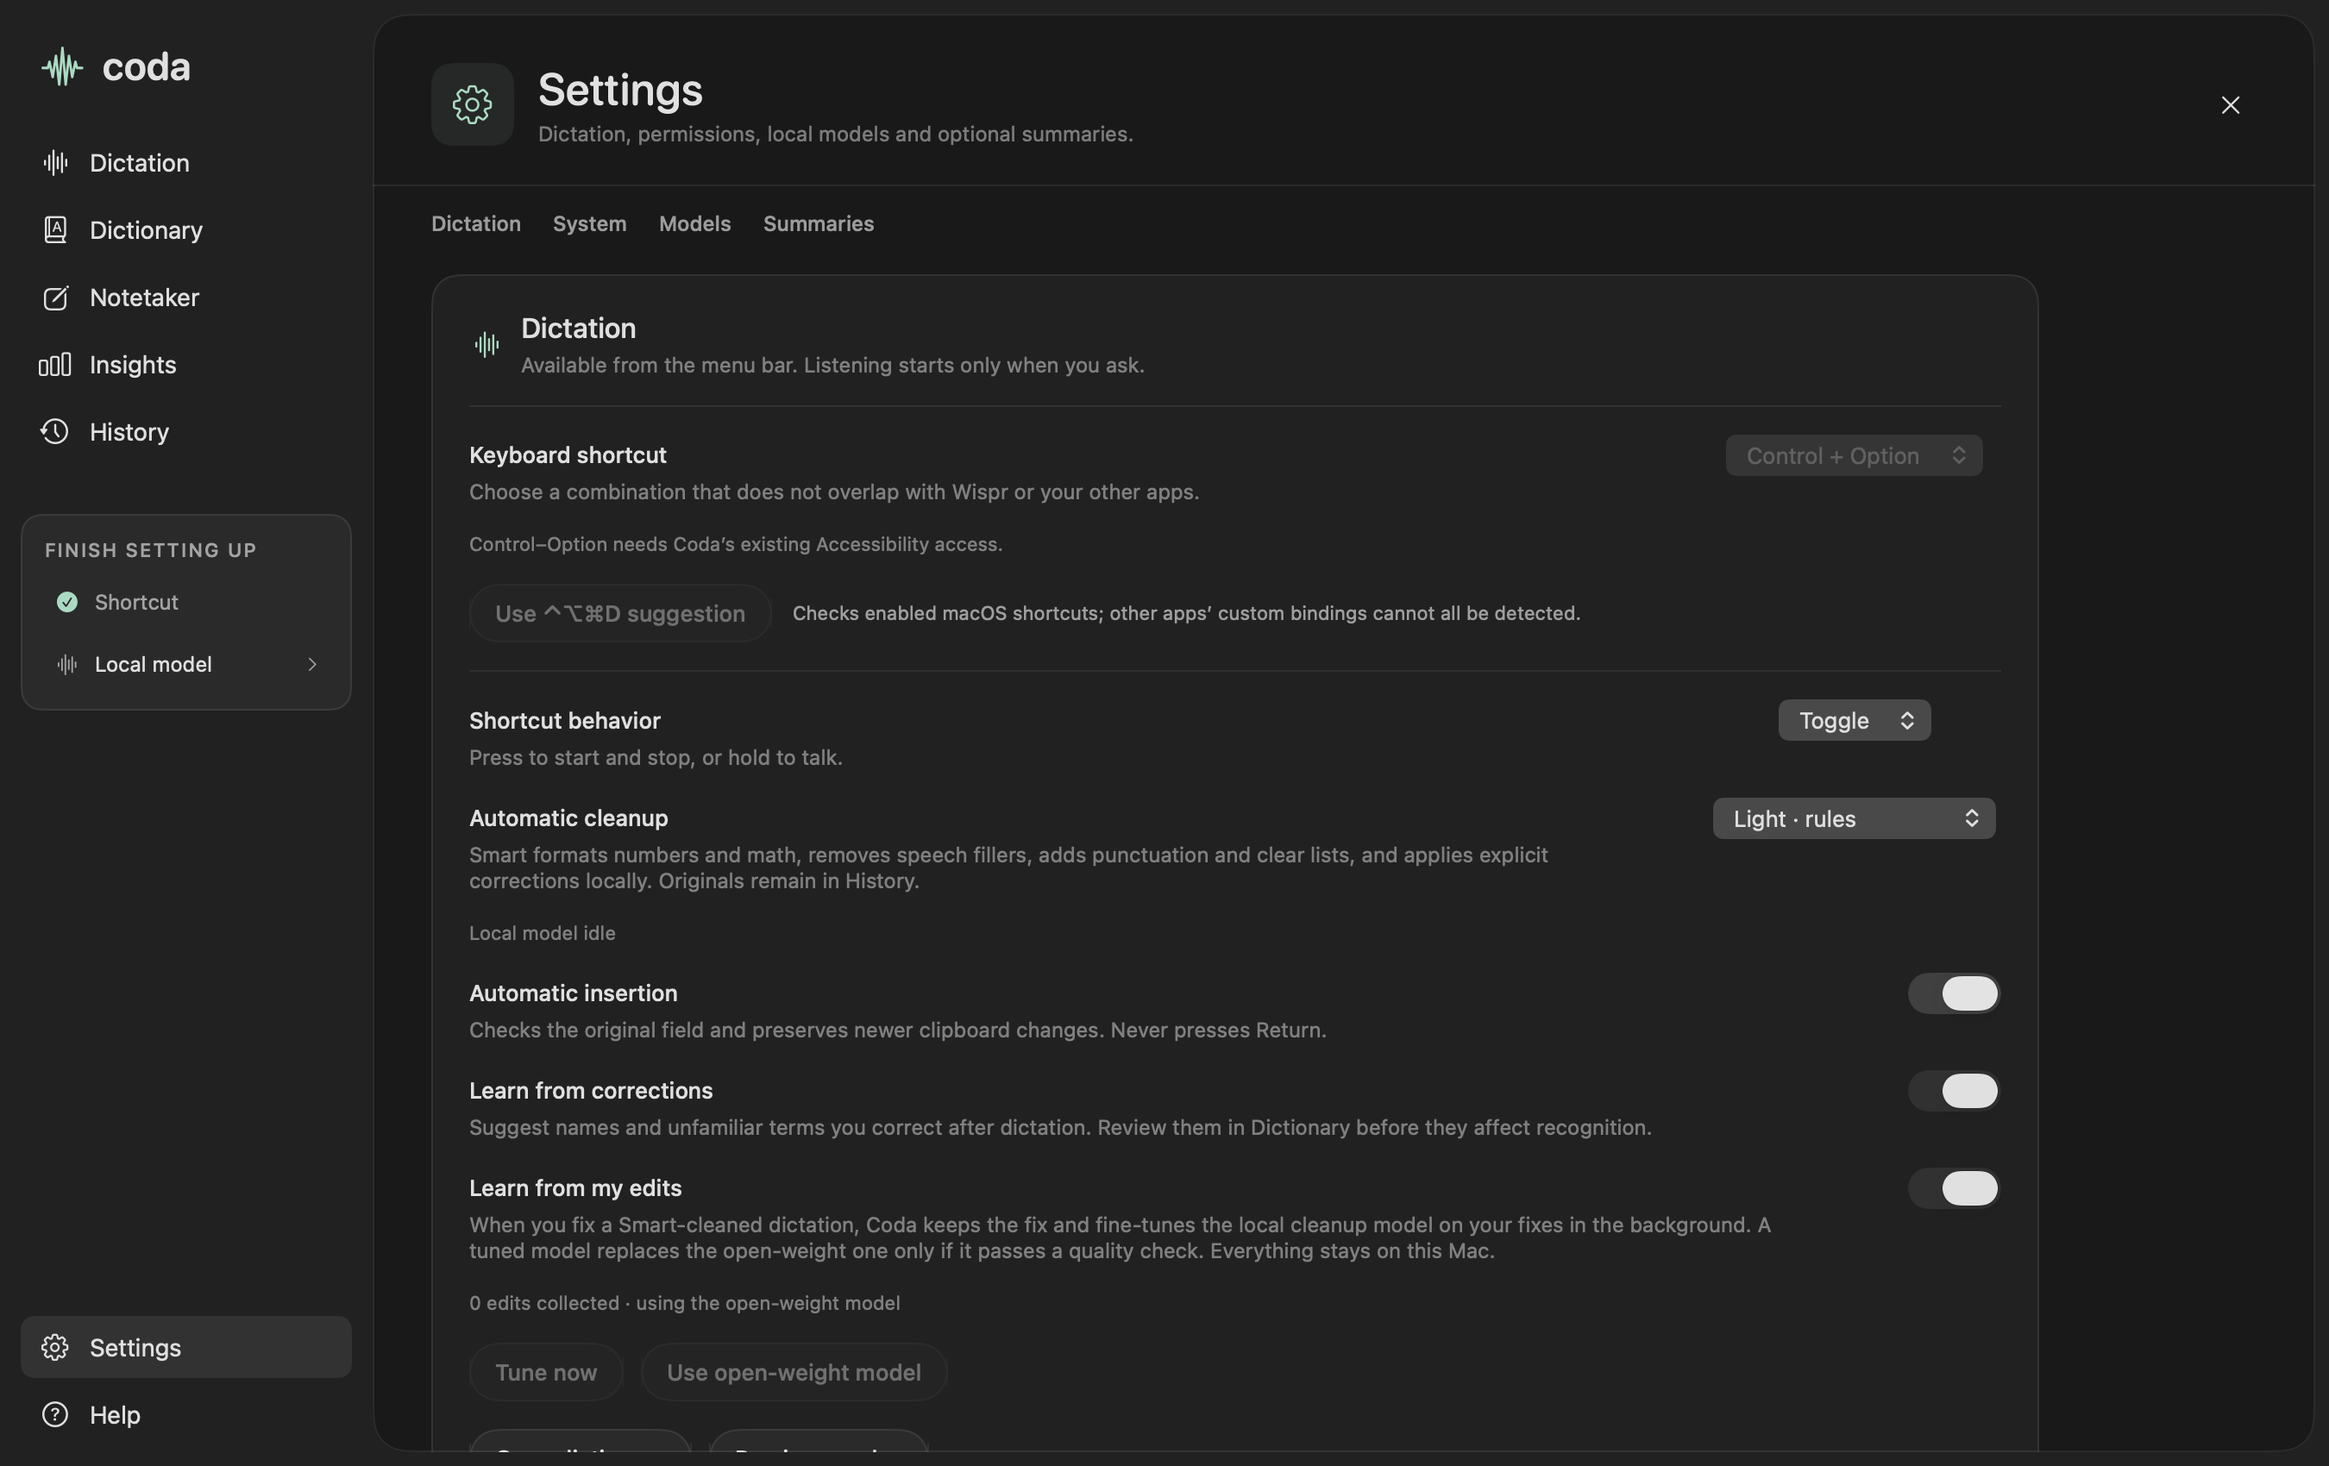
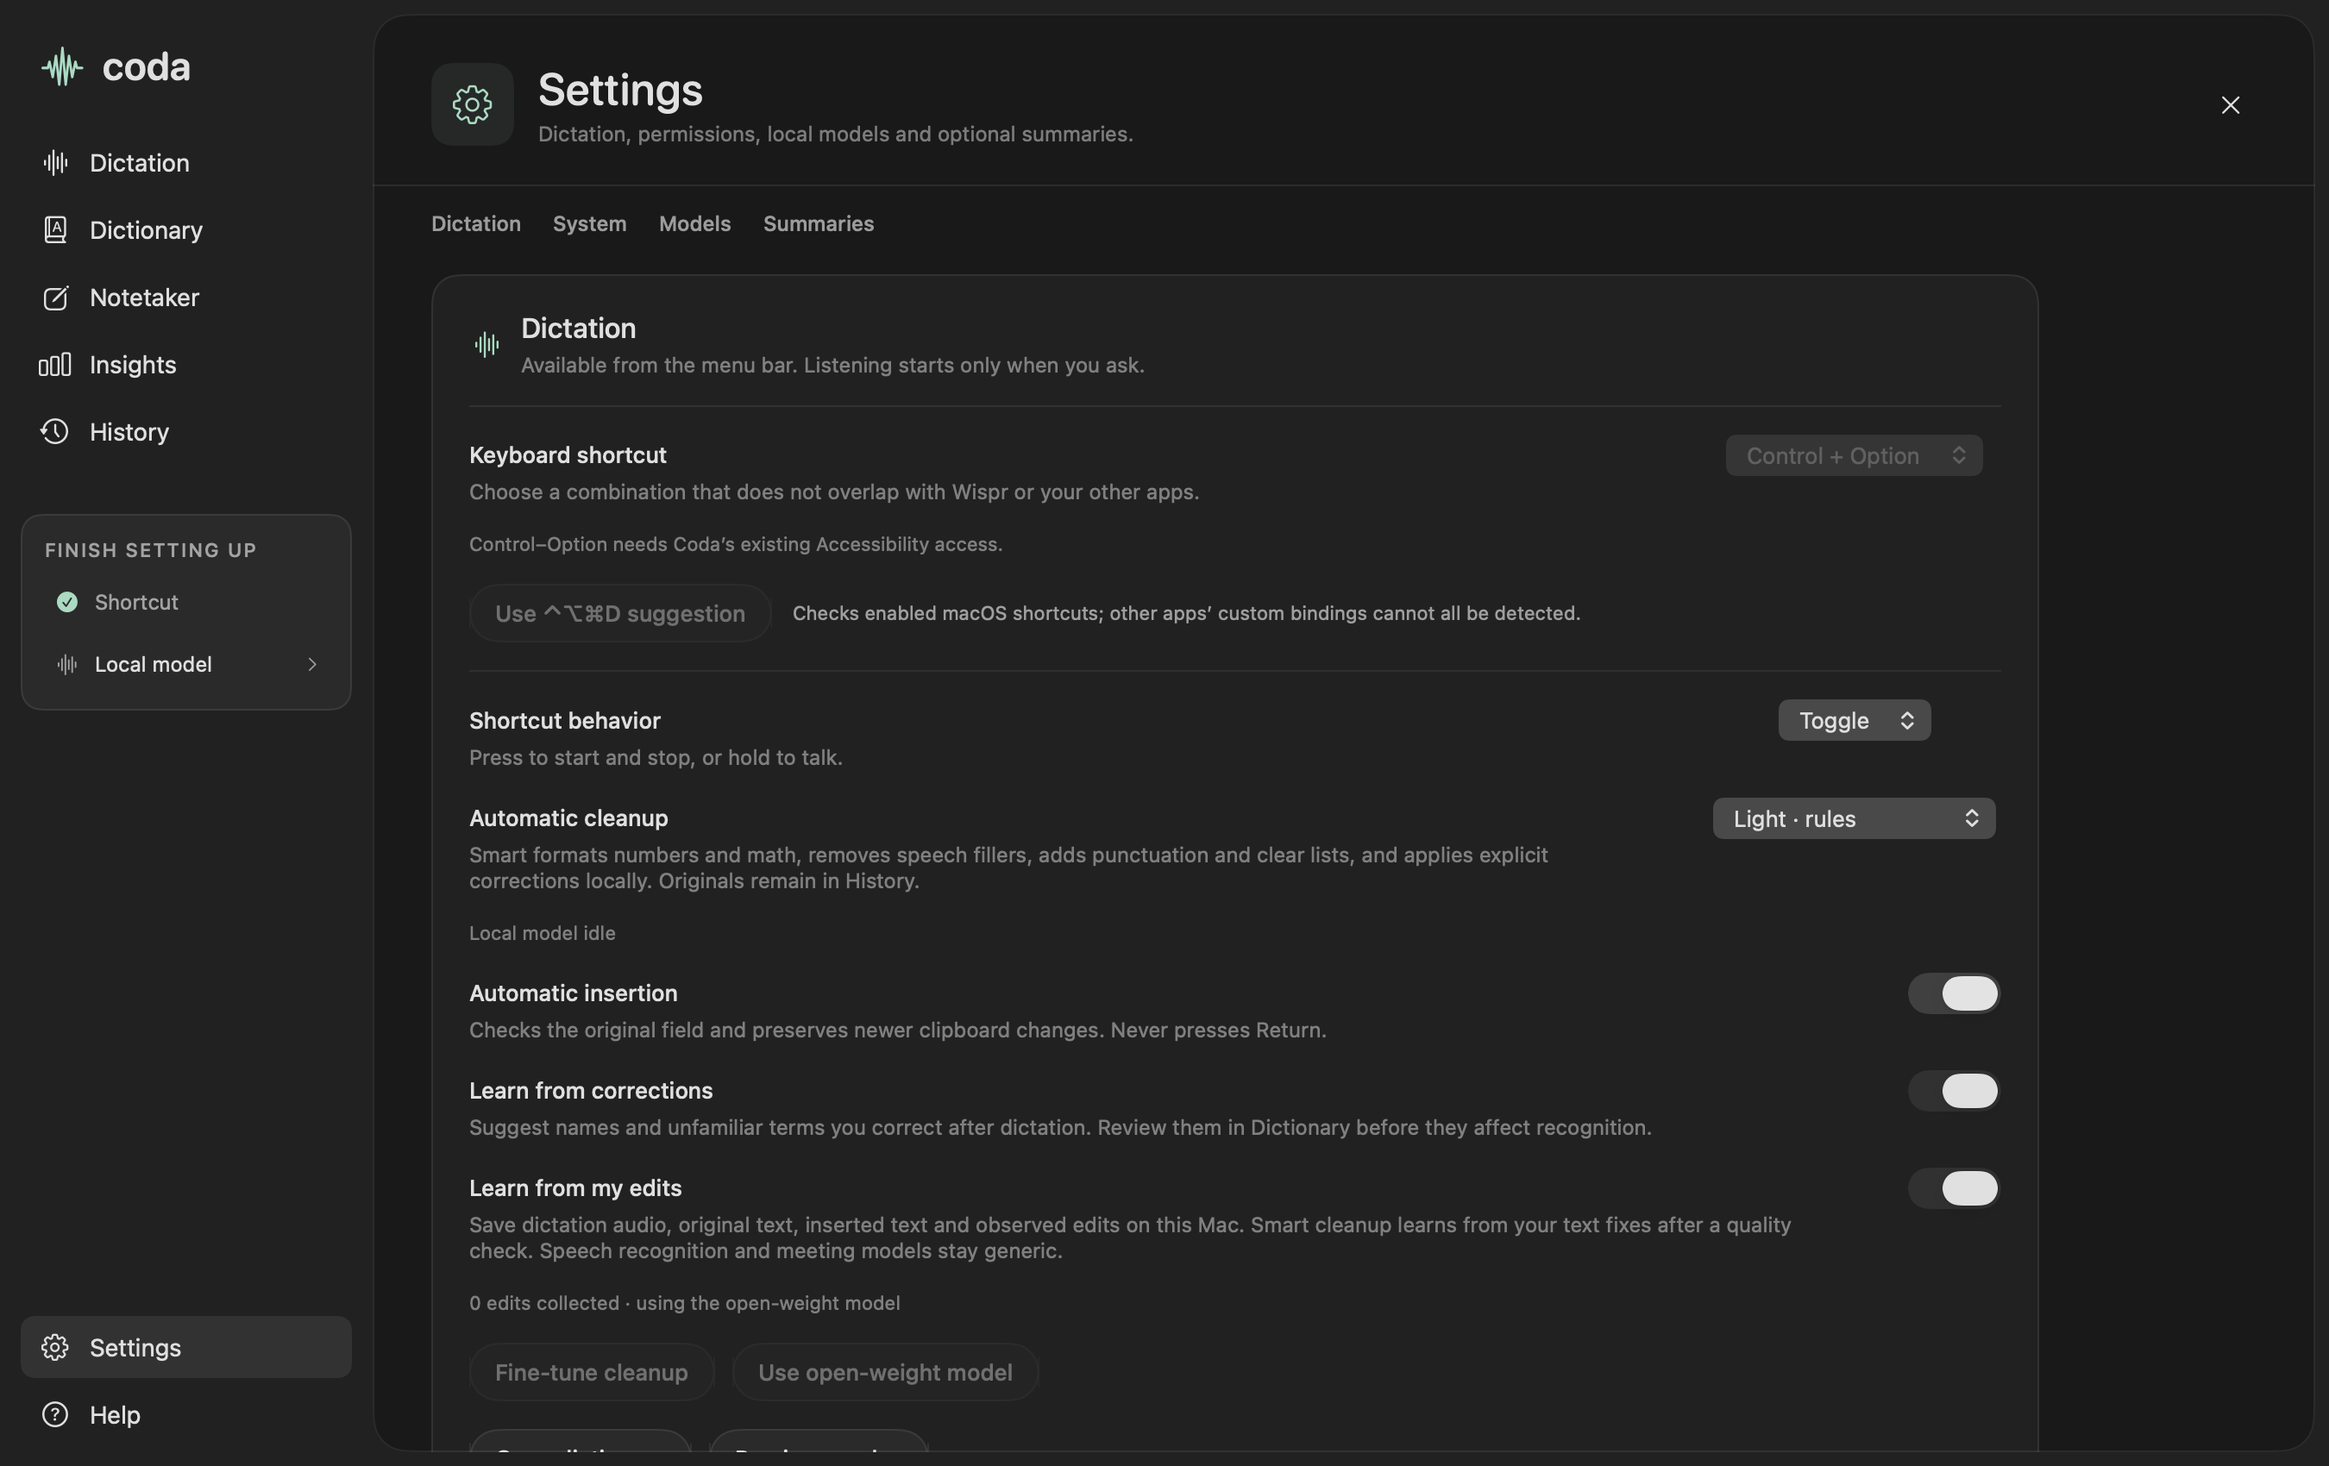
Save dictation audio and text pairs for personal training

Changed region(s): [[0.2178, 0.8106, 0.7778, 0.8729], [0.2489, 0.9353, 0.4356, 0.9665]]

diff --git a/Sources/Coda/DictationController.swift b/Sources/Coda/DictationController.swift
@@ -45,6 +45,7 @@ extension KeyboardShortcuts.Name {
     var pendingInsertion: UUID?
     var workspaceSection = "Dictation"
     private var history: DictationHistory?
+    private var trainingStore: DictationTrainingStore?
     private var sessionID: UUID?
     private var retryGeneration: UUID?
     private var retryTimeout: Task<Void, Never>?
@@ -113,7 +114,7 @@ extension KeyboardShortcuts.Name {
         guard let self else { return }
         defer { retryTask = nil; KeyboardShortcuts.disable(.codaCancelDictation) }
         let cleanupInput = record.cleanupMode == .smart ? record.rawText : nil
-        let success = await insertion.insertWithFallback(record.text, observeCorrections: { [weak self] in self?.observeCorrections($0, cleanupInput: cleanupInput) })
+        let success = await insertion.insertWithFallback(record.text, observeCorrections: { [weak self] in self?.observeCorrections($0, cleanupInput: cleanupInput, session: id) })
         record.outcome = success ? .inserted : insertion.deliveryAttempted ? .deliveryUnconfirmed : .copyRequired
         record.target = targetName
         record.detail = insertion.reason
@@ -211,15 +212,18 @@ extension KeyboardShortcuts.Name {
     /// Watches the destination field after insertion. Word changes feed dictionary
     /// suggestions; when the text was Smart-cleaned, the edited passage is also kept
     /// for personal fine-tuning (`cleanupInput` is what the cleanup model received).
-    private func observeCorrections(_ target: DictationCorrectionTarget, cleanupInput: String?) {
-        let tuneOnEdits = personalTuning.enabled && cleanupInput != nil
+    private func observeCorrections(_ target: DictationCorrectionTarget, cleanupInput: String?, session: UUID) {
+        let tuneOnEdits = personalTuning.enabled
         guard learnWords || tuneOnEdits, !visualReview else { return }
         wordSuggestions.preferredFrame = insertion.targetDisplayFrame
-        let session = UUID()
         corrections.start(target) { [weak self] changes, original, edited in
             guard let self else { return }
             if learnWords { reviewCorrections(changes, original: original, edited: edited, session: session) }
-            if tuneOnEdits, let cleanupInput {
+            if tuneOnEdits, personalTuning.enabled {
+                do { try trainingStore?.updateFinalText(id: session, text: edited) }
+                catch { message = "Could not save the dictation correction for training." }
+            }
+            if tuneOnEdits, personalTuning.enabled, let cleanupInput {
                 personalTuning.record(CleanupEdit(id: session, input: cleanupInput, inserted: original, edited: edited))
             }
         }
@@ -268,6 +272,7 @@ extension KeyboardShortcuts.Name {
                 ? FileManager.default.temporaryDirectory.appendingPathComponent("Coda-Preview-" + UUID().uuidString)
                 : FileManager.default.urls(for: .applicationSupportDirectory, in: .userDomainMask)[0].appendingPathComponent("Coda/Dictations")
             let history = try DictationHistory(root: base); self.history = history
+            trainingStore = try DictationTrainingStore(root: base.appendingPathComponent("Training"))
             let loaded = try history.load(); records = loaded.records; selectedRecord = records.first?.id
             if loaded.skipped > 0 { historyWarning = "Some history files could not be read. They were preserved on disk." }
         } catch { historyWarning = "Dictation history is unavailable. New text will remain in memory until you quit." }
@@ -448,9 +453,13 @@ extension KeyboardShortcuts.Name {
                     saveSession(outcome: .saved, detail: message)
                     return
                 }
+                if personalTuning.enabled {
+                    do { try trainingStore?.save(id: id, audio: url, rawText: rawText, insertedText: text) }
+                    catch { cleanupDetail += " Could not save audio and text for training." }
+                }
                 let inserted: Bool
                 if autoInsert {
-                    inserted = await insertion.insertWithFallback(text, observeCorrections: { [weak self] in self?.observeCorrections($0, cleanupInput: cleanupInput) })
+                    inserted = await insertion.insertWithFallback(text, observeCorrections: { [weak self] in self?.observeCorrections($0, cleanupInput: cleanupInput, session: id) })
                 } else { inserted = false }
                 guard lifecycle.complete(id) else { return }
                 message = inserted ? insertion.reason + " Saved in History." : (autoInsert ? insertion.reason : "Saved in History. Automatic insertion is off.")

diff --git a/Sources/CodaCore/DictationTraining.swift b/Sources/CodaCore/DictationTraining.swift
@@ -1,0 +1,54 @@
+import Foundation
+
+/// Audio and text from a single dictation. Final text is an observed edit, not
+/// necessarily a verbatim transcript suitable for acoustic model training.
+public struct DictationTrainingPair: Codable, Equatable, Sendable {
+    public var id: UUID
+    public var created: Date
+    public var rawText: String
+    public var insertedText: String
+    public var finalText: String
+    public var userEdited: Bool
+    public var audioFile: String
+}
+
+/// Separate from meeting storage and from the cleanup model's text-only edits.
+public struct DictationTrainingStore: Sendable {
+    public let root: URL
+    public init(root: URL) throws {
+        self.root = root
+        try FileManager.default.createDirectory(at: root, withIntermediateDirectories: true, attributes: [.posixPermissions: 0o700])
+    }
+    public func save(id: UUID, audio: URL, rawText: String, insertedText: String) throws {
+        let name = id.uuidString + ".m4a"
+        let destination = root.appendingPathComponent(name)
+        guard !FileManager.default.fileExists(atPath: destination.path) else { return }
+        try FileManager.default.copyItem(at: audio, to: destination)
+        do {
+            try FileManager.default.setAttributes([.posixPermissions: 0o600], ofItemAtPath: destination.path)
+            try write(DictationTrainingPair(id: id, created: .now, rawText: rawText,
+                insertedText: insertedText, finalText: insertedText, userEdited: false, audioFile: name))
+        } catch {
+            try? FileManager.default.removeItem(at: destination)
+            throw error
+        }
+    }
+    public func updateFinalText(id: UUID, text: String) throws {
+        let file = root.appendingPathComponent(id.uuidString + ".json")
+        var pair = try JSONDecoder().decode(DictationTrainingPair.self, from: Data(contentsOf: file))
+        pair.finalText = text
+        pair.userEdited = text != pair.insertedText
+        try write(pair)
+    }
+    public func load() throws -> [DictationTrainingPair] {
+        try FileManager.default.contentsOfDirectory(at: root, includingPropertiesForKeys: nil)
+            .filter { $0.pathExtension == "json" }
+            .map { try JSONDecoder().decode(DictationTrainingPair.self, from: Data(contentsOf: $0)) }
+            .sorted { $0.created < $1.created }
+    }
+    private func write(_ pair: DictationTrainingPair) throws {
+        let file = root.appendingPathComponent(pair.id.uuidString + ".json")
+        try JSONEncoder().encode(pair).write(to: file, options: .atomic)
+        try FileManager.default.setAttributes([.posixPermissions: 0o600], ofItemAtPath: file.path)
+    }
+}

diff --git a/Sources/Coda/SettingsPanel.swift b/Sources/Coda/SettingsPanel.swift
@@ -117,13 +117,13 @@ struct SettingsPanel: View {
             row("Learn from corrections", "Suggest names and unfamiliar terms you correct after dictation. Review them in Dictionary before they affect recognition.") {
                 Toggle("Learn from corrections", isOn: $controller.learnWords).labelsHidden().toggleStyle(.switch).disabled(locked || model.isVisualReview)
             }
-            row("Learn from my edits", "When you fix a Smart-cleaned dictation, Coda keeps the fix and fine-tunes the local cleanup model on your fixes in the background. A tuned model replaces the open-weight one only if it passes a quality check. Everything stays on this Mac.") {
+            row("Learn from my edits", "Save dictation audio, original text, inserted text and observed edits on this Mac. Smart cleanup learns from your text fixes after a quality check. Speech recognition and meeting models stay generic.") {
                 Toggle("Learn from my edits", isOn: Binding(get: { controller.personalTuning.enabled }, set: { controller.personalTuning.enabled = $0 }))
                     .labelsHidden().toggleStyle(.switch).disabled(locked || model.isVisualReview)
             }
             Text(controller.personalTuning.summary).font(.system(size: 11)).foregroundStyle(.secondary).fixedSize(horizontal: false, vertical: true)
             HStack(spacing: 10) {
-                Button("Tune now") { controller.personalTuning.tuneNow() }
+                Button("Fine-tune cleanup") { controller.personalTuning.tuneNow() }
                     .buttonStyle(CodaSecondaryButtonStyle())
                     .disabled(locked || model.isVisualReview || controller.personalTuning.running || controller.personalTuning.editCount == 0)
                 Button("Use open-weight model") { controller.personalTuning.reset() }

diff --git a/Tests/CodaCoreTests/DictationTrainingTests.swift b/Tests/CodaCoreTests/DictationTrainingTests.swift
@@ -1,0 +1,26 @@
+import Foundation
+import Testing
+@testable import CodaCore
+
+@Test func trainingKeepsAudioOriginalAndLatestEdit() throws {
+    let root = FileManager.default.temporaryDirectory.appendingPathComponent(UUID().uuidString)
+    defer { try? FileManager.default.removeItem(at: root) }
+    let store = try DictationTrainingStore(root: root)
+    let audio = root.appendingPathComponent("source.m4a")
+    try Data([1, 2, 3]).write(to: audio)
+    let id = UUID()
+    try store.save(id: id, audio: audio, rawText: "raw words", insertedText: "Raw words.")
+    try FileManager.default.removeItem(at: audio)
+    try store.updateFinalText(id: id, text: "Correct words.")
+    var pair = try #require(store.load().first)
+    #expect(pair.rawText == "raw words")
+    #expect(pair.insertedText == "Raw words.")
+    #expect(pair.finalText == "Correct words.")
+    #expect(pair.userEdited)
+    #expect(try Data(contentsOf: root.appendingPathComponent(pair.audioFile)) == Data([1, 2, 3]))
+    try store.updateFinalText(id: id, text: "Raw words.")
+    pair = try #require(store.load().first)
+    #expect(!pair.userEdited)
+    let permissions = try FileManager.default.attributesOfItem(atPath: root.appendingPathComponent(pair.audioFile).path)[.posixPermissions] as? Int
+    #expect(permissions == 0o600)
+}

diff --git a/Sources/Coda/PersonalTuning.swift b/Sources/Coda/PersonalTuning.swift
@@ -87,7 +87,10 @@ import CodaCore
     func tuneNow() { pendingCheck?.cancel(); start() }
 
     private func start() {
-        guard !running, editCount > 0, let script, FileManager.default.isExecutableFile(atPath: python.path) else { return }
+        guard enabled, !running, !isDictating(), editCount > 0 else { return }
+        guard let script, FileManager.default.isExecutableFile(atPath: python.path) else {
+            status = Status(state: "failed", message: "Prepare Smart cleanup before fine-tuning."); return
+        }
         let worker = Process()
         worker.executableURL = python; worker.arguments = [script.path, root.path]
         worker.environment = ["PATH": "/usr/bin:/bin", "HOME": FileManager.default.homeDirectoryForCurrentUser.path,

diff --git a/docs/PERSONAL_DICTATION.md b/docs/PERSONAL_DICTATION.md
@@ -1,0 +1,11 @@
+# Personal dictation training
+
+The current implementation saves successful nonempty dictations while Learn from my edits is enabled in `~/Library/Application Support/Coda/Dictations/Training/`. Each UUID has private audio and JSON containing raw recognition, inserted text, latest observed field text, and whether that differs from insertion. Failed/cancelled sessions are not retained. Accessibility observation lasts up to 60 seconds in supported editors; final text is the latest observed passage, not a guaranteed final edit or verified verbatim transcript. Disabling learning stops future collection; existing pairs remain on disk.
+
+The Fine-tune cleanup button uses the existing local text cleanup tuner and its quality gate. It does not train speech recognition. Voz 4.1.0 exposes inference and custom model-directory loading but no training API in its Swift SDK. A supported acoustic training/export pipeline and verbatim label review are still needed before an audio fine-tuning button can truthfully be offered. Meetings continue using generic Voz; personal text cleanup is confined to dictation.
+
+Speaker adaptation can forget other speakers, but a regression is not inevitable: https://aclanthology.org/2021.emnlp-main.737/
+
+A better recognizer does not inherently overfit the cleanup model. It changes the cleanup input distribution; overcorrection can damage already-correct recognition. Excess training on few examples is a separate overfitting risk. See https://arxiv.org/abs/2407.13300 . Future acoustic model changes should trigger validation of the entire recognizer/cleanup combination on held-out audio, including correct-text preservation examples. Do not reuse polished rewrites as acoustic ground truth without review.
+
+Verification: four targeted persistence and tuning-policy tests passed; three native workspace render tests passed. Settings render inspected. No acoustic training or real user recordings were run; no running app was replaced.
